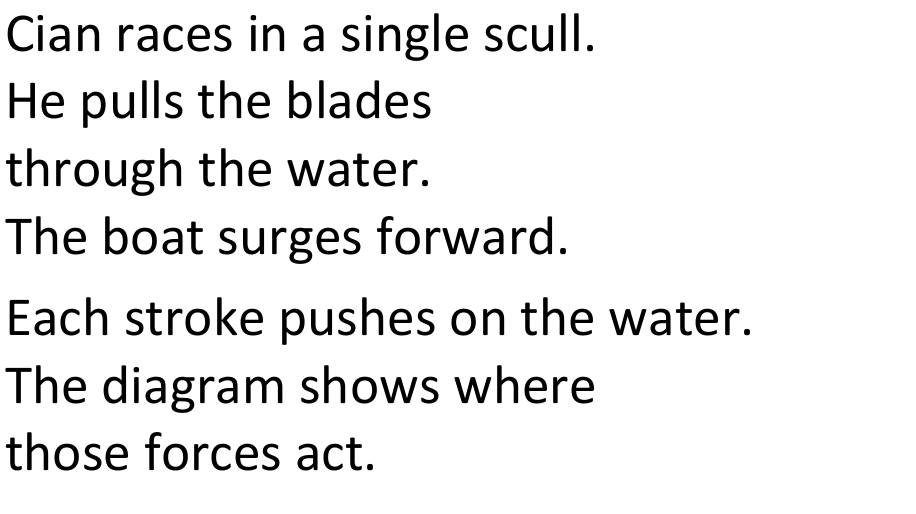
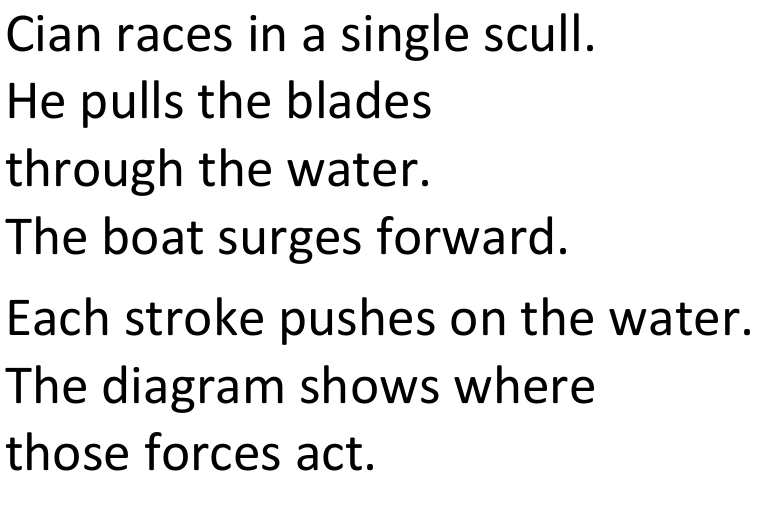
Remove unused exam paper chrome and whitespace

diff --git a/Geography Questions.dc.html b/Geography Questions.dc.html
@@ -250,8 +250,8 @@
     width: 100%;
   }
   .exam-context-panel {
-    width: calc(100% + 150px);
-    margin-left: -150px;
+    width: calc(100% + 65px);
+    margin-left: -65px;
     box-sizing: border-box;
   }
   .exam-context-render__text {
@@ -269,9 +269,9 @@
     opacity: 0;
     transition: opacity .3s ease, background-color .3s ease, box-shadow .3s ease;
   }
-  .exam-context-highlight--single { left: 49.8%; top: 1%; width: 36.9%; }
-  .exam-context-highlight--boat { left: 12.9%; top: 40.45%; width: 58.4%; transition-delay: .14s; }
-  .exam-context-highlight--force { left: 37.5%; top: 56.3%; width: 58.4%; transition-delay: .28s; }
+  .exam-context-highlight--single { left: 43.4%; top: 1%; width: 31.9%; }
+  .exam-context-highlight--boat { left: 13%; top: 40.45%; width: 58.4%; transition-delay: .14s; }
+  .exam-context-highlight--force { left: 37.75%; top: 56.3%; width: 57.9%; transition-delay: .28s; }
   [data-hf-target="context"].hf-current .exam-context-highlight {
     opacity: 1;
     background: #FFE45C;
@@ -507,31 +507,8 @@
     <div data-hf-scene style="position: absolute; left: 0; top: 0; width: 3177px; height: 1788px; background: url(assets/cartoon-desk.svg) center/100% 100% no-repeat;">
   <img class="exam-hand-motion exam-hand-motion--left" src="assets/hands/left-resting-layered.svg" alt="" aria-hidden="true">
   <img class="exam-hand-motion exam-hand-motion--right" src="assets/hands/right-writing-gentle-rig.svg" alt="" aria-hidden="true">
-  <div class="exam-paper" style="position: absolute; left: 901px; top: 27px; width: 1370px; height: 1743px; z-index: 2; box-sizing: border-box; padding: 26px; overflow: hidden; border-radius: 6px;">
+  <div class="exam-paper" style="position: absolute; left: 901px; top: 27px; width: 1370px; height: 1530px; z-index: 2; box-sizing: border-box; padding: 26px; overflow: hidden; border-radius: 6px;">
   <div id="3a" style="width: 1318px; transform: scale(1.0); display: flex; flex-direction: column; gap: 12px;">
-    <div style="display: flex; align-items: center; gap: 10px;">
-      <span class="tag tag-outline" style="font-family: 'Fredoka', sans-serif;">3a</span>
-      <span style="font-family: 'Fredoka', sans-serif; font-size: 14px; color: var(--color-neutral-300);">Fixed stem · scrolling question rail</span>
-    </div>
-    <div style="display: flex; align-items: center; gap: 14px;">
-      <div style="flex: 1; height: 8px; border-radius: 999px; background: var(--color-neutral-800); position: relative;">
-        <div style="height: 100%; border-radius: 999px; background: var(--color-accent); width: {{ barPct }}; transition: width .62s cubic-bezier(.85,0,.2,1); position: relative;">
-          <sc-for list="{{ barSplash }}" as="b" hint-placeholder-count="0">
-            <span style="position: absolute; right: -4px; top: 50%; width: 16px; height: 16px; margin: -8px 0 0 0; border-radius: 999px; border: 2px solid var(--color-accent-300); animation: splash .6s ease-out .6s both;"></span>
-          </sc-for>
-          <sc-for list="{{ barSplash }}" as="b" hint-placeholder-count="0">
-            <span style="position: absolute; right: 1px; top: 50%; width: 5px; height: 5px; margin: -2.5px 0 0 0; border-radius: 999px; background: var(--color-accent-300); --sx: 15px; --sy: -13px; animation: splashDrop .5s ease-out .6s both;"></span>
-          </sc-for>
-          <sc-for list="{{ barSplash }}" as="b" hint-placeholder-count="0">
-            <span style="position: absolute; right: 1px; top: 50%; width: 4px; height: 4px; margin: -2px 0 0 0; border-radius: 999px; background: var(--color-accent-300); --sx: 12px; --sy: 14px; animation: splashDrop .5s ease-out .66s both;"></span>
-          </sc-for>
-          <sc-for list="{{ barSplash }}" as="b" hint-placeholder-count="0">
-            <span style="position: absolute; right: 0; top: 50%; width: 4px; height: 4px; margin: -2px 0 0 0; border-radius: 999px; background: var(--color-accent-300); --sx: 18px; --sy: 3px; animation: splashDrop .52s ease-out .63s both;"></span>
-          </sc-for>
-        </div>
-      </div>
-      <span style="font-family: 'Nunito', sans-serif; font-weight: 700; font-size: 12.5px; color: var(--color-neutral-400); white-space: nowrap;">{{ barLabel }}</span>
-    </div>
     <div class="card elev-md" style="padding: 14px 24px 16px; display: grid; grid-template-columns: 860px 1fr; column-gap: 24px; row-gap: 10px; align-items: start;">
 
       <div style="display: contents;">
@@ -547,7 +524,7 @@
               <span class="exam-context-highlight exam-context-highlight--single"></span>
               <span class="exam-context-highlight exam-context-highlight--boat"></span>
               <span class="exam-context-highlight exam-context-highlight--force"></span>
-              <img class="exam-context-render__text" src="assets/exam-context-pdf.png?v=4" alt="">
+              <img class="exam-context-render__text" src="assets/exam-context-pdf.png?v=5" alt="">
               <span class="exam-context-accessible">Cian races in a single scull. He pulls the blades through the water. The boat surges forward. Each stroke pushes on the water. The diagram shows where those forces act.</span>
             </div>
           </div>

diff --git a/tools/generate_exam_context.py b/tools/generate_exam_context.py
@@ -138,6 +138,11 @@ def main() -> None:
                 r, g, b = source_pixels[x, y]
                 alpha = 255 - round((r + g + b) / 3)
                 target_pixels[x, y] = (0, 0, 0, alpha)
+        ink_bounds = rgba.getchannel("A").getbbox()
+        if not ink_bounds:
+            raise RuntimeError("Rendered context contains no visible text")
+        crop_right = min(rgba.width, ink_bounds[2] + 10)
+        rgba = rgba.crop((0, 0, crop_right, rgba.height))
         rgba.save(OUTPUT)
 
     measure = ImageFont.truetype(FONT_FILE, 1000)

diff --git a/PROJECT_STATE.md b/PROJECT_STATE.md
@@ -56,7 +56,8 @@ Completed:
 7. Rasterized `(a)`, `(b)` and `(c)` together so all three use the identical PDF rendering pipeline.
 8. Reworded `(b)` to apply another law to Cian's stroke and `(c)` to ask why a coach uses Newton's laws; `(a)` was preserved unchanged.
 9. Replaced the stylized top-right `Question 7` heading with a raster extracted directly from the same source exam PDF (`assets/exam-question-7-heading.png`). It preserves the embedded Calibri Bold face at 12 pt and the original title spacing while keeping the surrounding layout fixed.
-10. Re-rendered the rowing context through the original exam PDF's embedded Calibri resource and Poppler, then placed the transparent raster in the context panel as `assets/exam-context-pdf.png`. The current version uses the larger 20 pt font over seven longer lines. The panel extends 150 CSS pixels left into unused white space while retaining clearance from the rowing artwork and controls. This matches part `(a)`'s PDF rendering path while preserving staged yellow evidence highlights and accessible text. The reproducible generator is `tools/generate_exam_context.py`; its preserved source PDF is under `assets/source/`.
+10. Re-rendered the rowing context through the original exam PDF's embedded Calibri resource and Poppler, then placed the transparent raster in the context panel as `assets/exam-context-pdf.png`. The current version uses the larger 20 pt font over seven longer lines. The generator crops the transparent tail after the final glyph, and the panel extends 65 CSS pixels left before being right-aligned in its column. This matches part `(a)`'s PDF rendering path while preserving staged yellow evidence highlights and accessible text. The reproducible generator is `tools/generate_exam_context.py`; its preserved source PDF is under `assets/source/`.
+11. Removed the `3a / Fixed stem / scrolling question rail` header and its progress strip. Reduced the exam paper height from 1743 to 1530 scene pixels so it ends immediately after the real question card with normal padding and no large blank footer.
 
 Exact part `(a)` typography:
 
